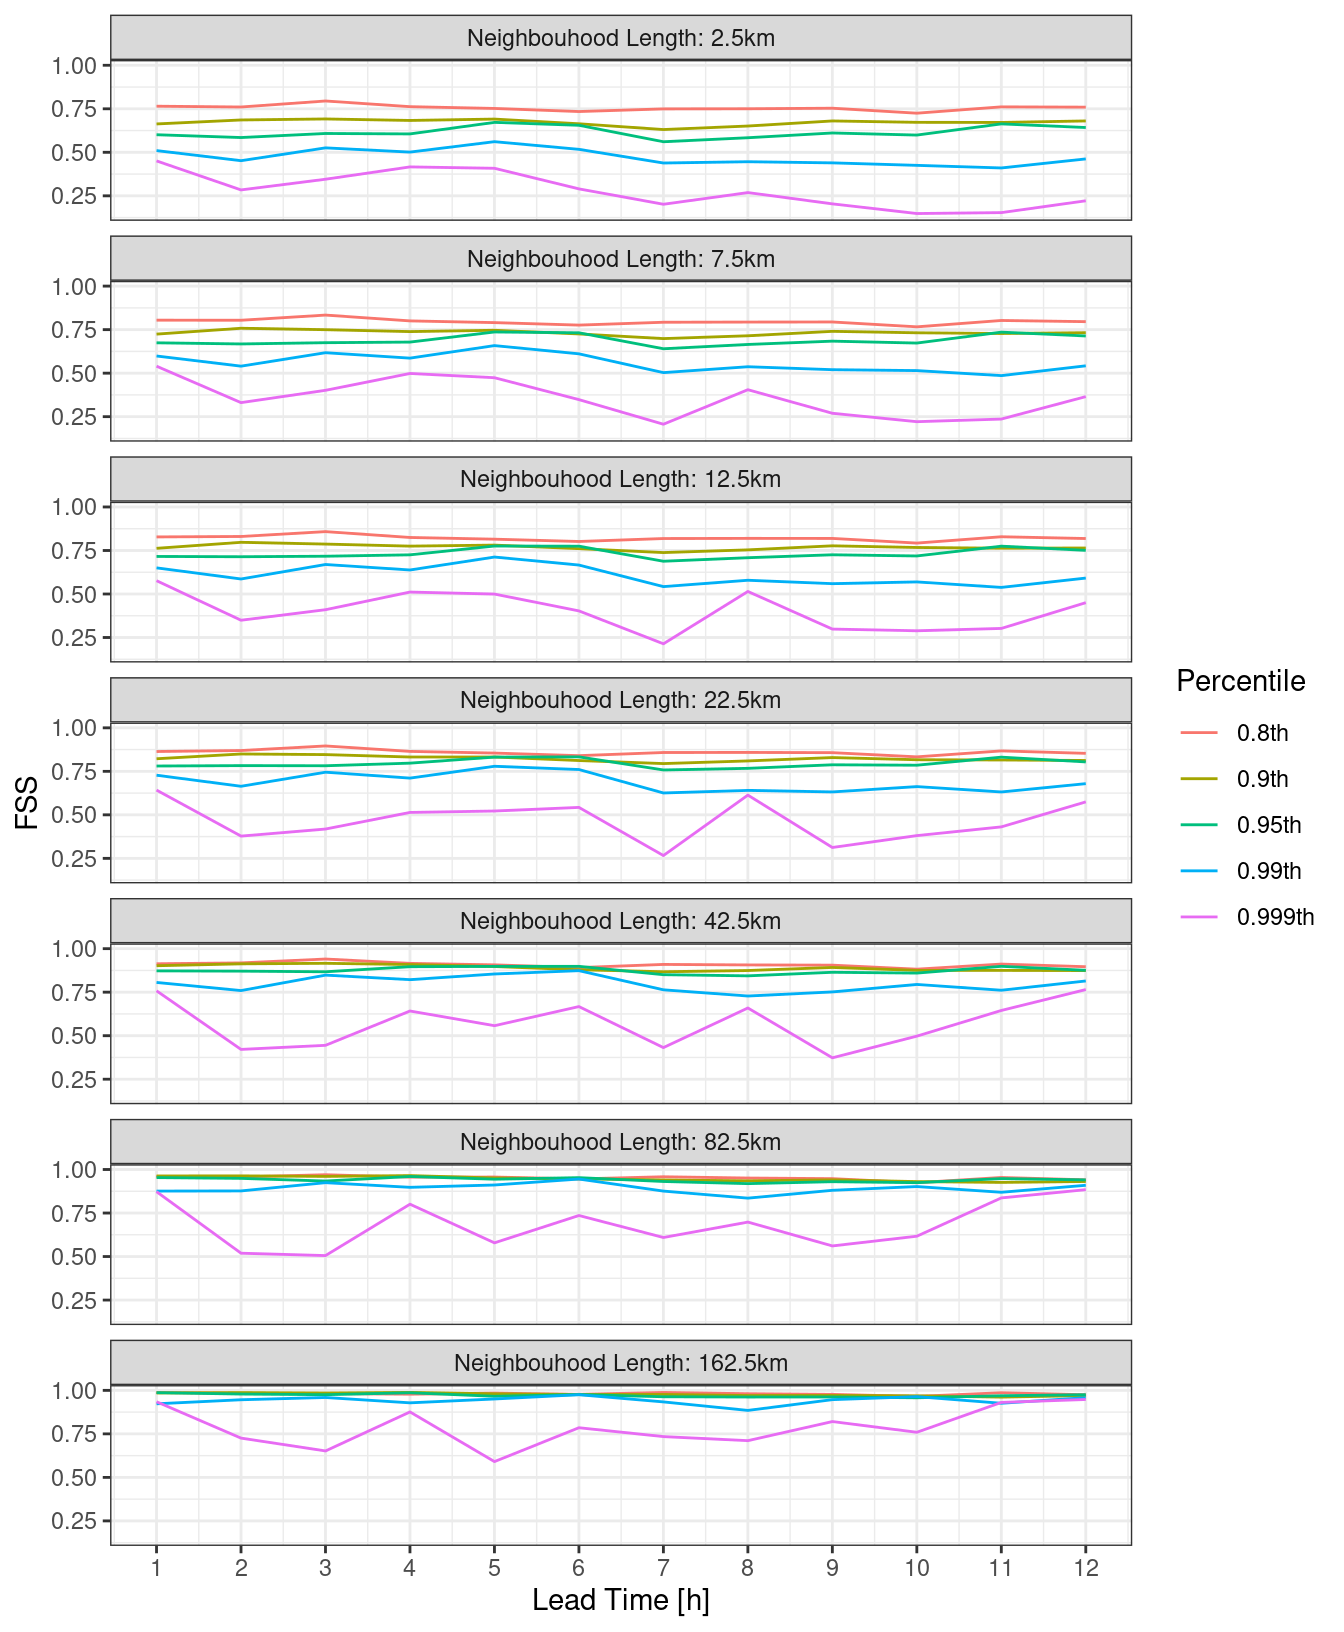
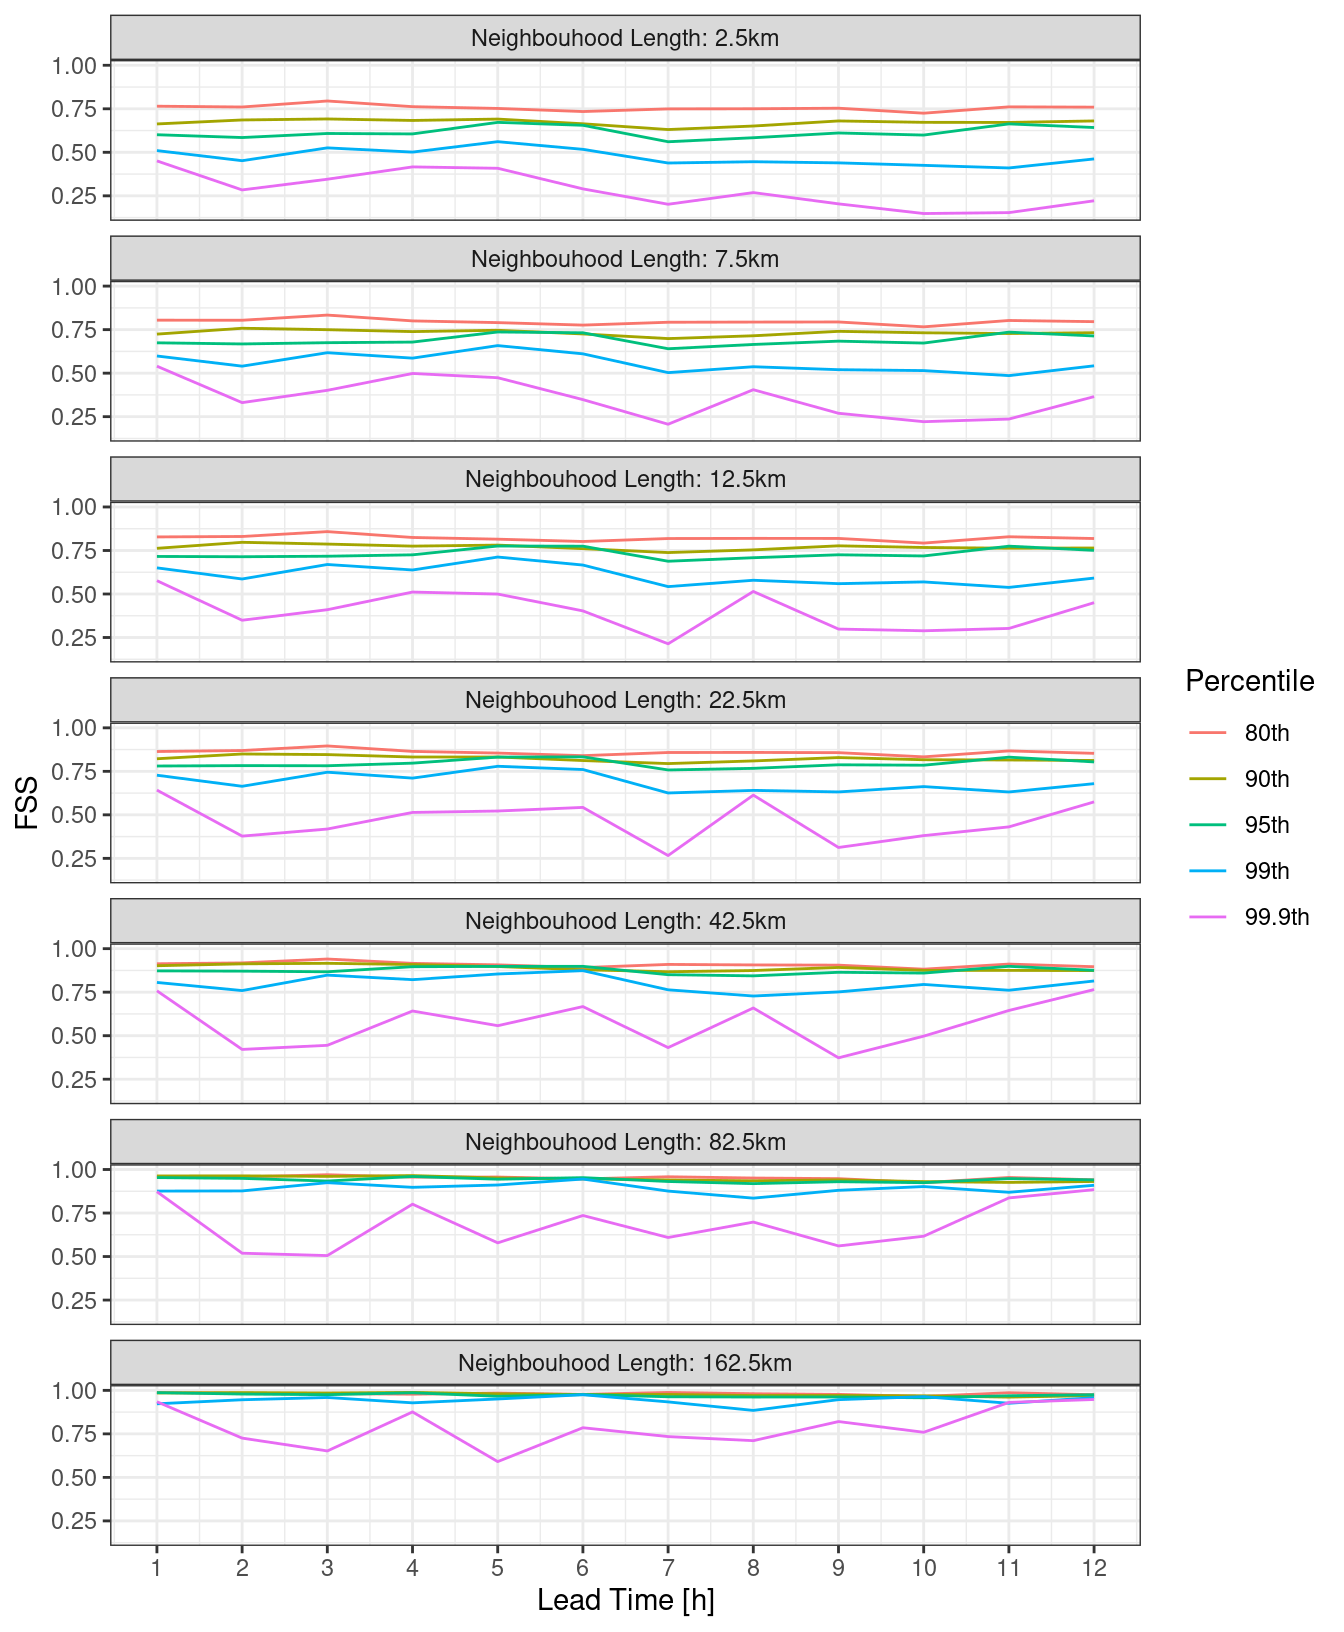
Quantiles as percentiles

diff --git a/docs/spatial-verif.html b/docs/spatial-verif.html
@@ -733,7 +733,7 @@ log-2.718282 transformation introduced infinite values.</code></pre>
 <span id="cb27-3"><a href="#cb27-3" aria-hidden="true" tabindex="-1"></a>  <span class="fu">aes</span>(</span>
 <span id="cb27-4"><a href="#cb27-4" aria-hidden="true" tabindex="-1"></a>    lead_time, </span>
 <span id="cb27-5"><a href="#cb27-5" aria-hidden="true" tabindex="-1"></a>    fss, </span>
-<span id="cb27-6"><a href="#cb27-6" aria-hidden="true" tabindex="-1"></a>    <span class="at">colour =</span> <span class="fu">fct_reorder</span>(<span class="fu">paste0</span>(quantile, <span class="st">"th"</span>), quantile)</span>
+<span id="cb27-6"><a href="#cb27-6" aria-hidden="true" tabindex="-1"></a>    <span class="at">colour =</span> <span class="fu">fct_reorder</span>(<span class="fu">paste0</span>(quantile <span class="sc">*</span> <span class="dv">100</span>, <span class="st">"th"</span>), quantile)</span>
 <span id="cb27-7"><a href="#cb27-7" aria-hidden="true" tabindex="-1"></a>  )</span>
 <span id="cb27-8"><a href="#cb27-8" aria-hidden="true" tabindex="-1"></a>) <span class="sc">+</span></span>
 <span id="cb27-9"><a href="#cb27-9" aria-hidden="true" tabindex="-1"></a>  <span class="fu">geom_line</span>() <span class="sc">+</span></span>
